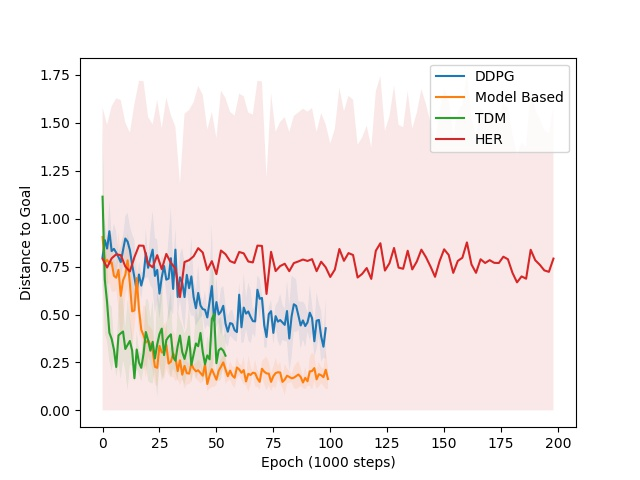
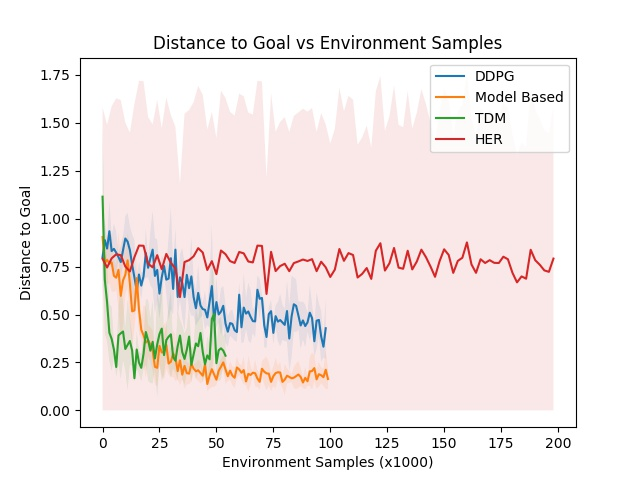
finish making plots (Draft 1 at least)

Changed region(s): [[0.2188, 0.0625, 0.7812, 0.125], [0.3438, 0.9375, 0.6875, 1.0]]

diff --git a/experiments/state_distance/iclr2018/vectorized_vs_not_vectorized.py b/experiments/state_distance/iclr2018/vectorized_vs_not_vectorized.py
@@ -1,0 +1,54 @@
+"""
+TODO: rerun with full state env
+"""
+from railrl.misc.data_processing import Experiment
+import matplotlib.pyplot as plt
+import numpy as np
+
+path = "/home/vitchyr/git/rllab-rail/railrl/data/doodads3/10-21-sdql-compare-vectorized-delta-normal-big-sweep/"
+exp = Experiment(path)
+base_criteria = {
+    'env_class.$class':
+        "railrl.envs.multitask.reacher_7dof.Reacher7DofFullGoalState"
+}
+algos = [
+    'railrl.algos.state_distance.state_distance_q_learning.HorizonFedStateDistanceQLearning',
+    'railrl.algos.state_distance.vectorized_sdql.VectorizedTauSdql',
+]
+algo_to_trials = {}
+for algo in algos:
+    criteria = base_criteria.copy()
+    criteria['algo_class.$class'] = algo
+    algo_to_trials[algo] = exp.get_trials(criteria)
+
+key = 'Final_Euclidean_distance_to_goal_Mean'
+for algo, trials in algo_to_trials.items():
+    if algo == 'railrl.algos.state_distance.state_distance_q_learning' \
+               '.HorizonFedStateDistanceQLearning':
+        name = 'Scalar'
+    else:
+        name = 'Vector'
+    all_values = []
+    min_len = np.inf
+    for trial in trials:
+        values_ts = trial.data[key]
+        min_len = min(min_len, len(values_ts))
+        all_values.append(values_ts)
+    costs = np.vstack([
+        values[:min_len]
+        for values in all_values
+    ])
+    mean = np.mean(costs, axis=0)
+    std = np.std(costs, axis=0)
+    epochs = np.arange(0, len(costs[0])) / 10
+    plt.fill_between(epochs, mean - std, mean + std, alpha=0.1)
+    plt.plot(epochs, mean, label=name)
+
+
+plt.xlabel("Environment Steps (x1000)")
+plt.ylabel("Distance to Goal")
+plt.title("Distance to Goal vs Environment Samples for Scalar and Vector "
+          "Supervision")
+plt.legend()
+plt.savefig('results/iclr2018/vectorized-vs-scalar.jpg')
+plt.show()

diff --git a/experiments/state_distance/iclr2018/tau_sweep.py b/experiments/state_distance/iclr2018/tau_sweep.py
@@ -1,0 +1,47 @@
+from railrl.misc.data_processing import Experiment
+import matplotlib.pyplot as plt
+import numpy as np
+
+path = "/home/vitchyr/git/rllab-rail/railrl/data/doodads3/10-25-get-results-take1/"
+exp = Experiment(path)
+base_criteria = {
+    'algo_params.goal_dim_weights': [1] * 17,
+    'env_class.$class': "railrl.envs.multitask.reacher_7dof.Reacher7DofGoalStateEverything"
+}
+tau_to_criteria = {}
+taus = [1, 5, 10, 25]
+for tau in taus:
+    criteria = base_criteria.copy()
+    criteria['epoch_discount_schedule_params.value'] = tau
+    tau_to_criteria[tau] = criteria
+
+
+tau_to_trials = {}
+for tau in taus:
+    tau_to_trials[tau] = exp.get_trials(tau_to_criteria[tau])
+
+key = 'Final_Euclidean_distance_to_goal_Mean'
+for tau, trials in tau_to_trials.items():
+    all_values = []
+    min_len = np.inf
+    for trial in trials:
+        values_ts = trial.data[key]
+        min_len = min(min_len, len(values_ts))
+        all_values.append(values_ts)
+    costs = np.vstack([
+        values[:min_len]
+        for values in all_values
+    ])
+    mean = np.mean(costs, axis=0)
+    std = np.std(costs, axis=0)
+    epochs = np.arange(0, len(costs[0])) / 10
+    plt.fill_between(epochs, mean - std, mean + std, alpha=0.1)
+    plt.plot(epochs, mean, label=r"$\tau = {}$".format(str(tau)))
+
+
+plt.xlabel("Environment Steps (x1000)")
+plt.ylabel("Distance to Goal")
+plt.title("Distance to Goal vs Environment Samples")
+plt.legend()
+plt.savefig('results/iclr2018/tau_sweep.jpg')
+plt.show()

diff --git a/experiments/state_distance/iclr2018/pusher_results.py b/experiments/state_distance/iclr2018/pusher_results.py
@@ -68,8 +68,9 @@ plt.plot(epochs, her_mean, label="HER")
 #     plt.plot(epochs, run, label="HER")
 
 # plt.xscale('log')
-plt.xlabel("Epoch (1000 steps)")
+plt.xlabel("Environment Samples (x1000)")
 plt.ylabel("Distance to Goal")
+plt.title(r"Distance to Goal vs Environment Samples")
 plt.legend()
 plt.savefig('results/iclr2018/pusher.jpg')
 plt.show()

diff --git a/experiments/state_distance/iclr2018/reacher_results.py b/experiments/state_distance/iclr2018/reacher_results.py
@@ -74,8 +74,9 @@ plt.plot(epochs, her_mean, label="HER")
 #     plt.plot(epochs, run, label="HER")
 
 # plt.xscale('log')
-plt.xlabel("Epoch (1000 steps)")
+plt.xlabel("Environment Steps (x1000)")
 plt.ylabel("Distance to Goal")
+plt.title(r"Distance to Goal vs Environment Samples")
 plt.legend()
 plt.savefig('results/iclr2018/reacher.jpg')
 plt.show()

diff --git a/experiments/state_distance/iclr2018/sawyer_results.py b/experiments/state_distance/iclr2018/sawyer_results.py
@@ -37,9 +37,9 @@ for trials, name, key in [
     plt.plot(epochs, mean, label=name)
 
 
-# plt.xscale('log')
-plt.xlabel("Epoch (1000 steps)")
+plt.xlabel("Environment Steps (x1000)")
 plt.ylabel("Mean Distance to Goal")
+plt.title(r"Mean Distance to Goal vs Environment Samples")
 plt.legend()
 plt.savefig('results/iclr2018/sawyer.jpg')
 plt.show()
